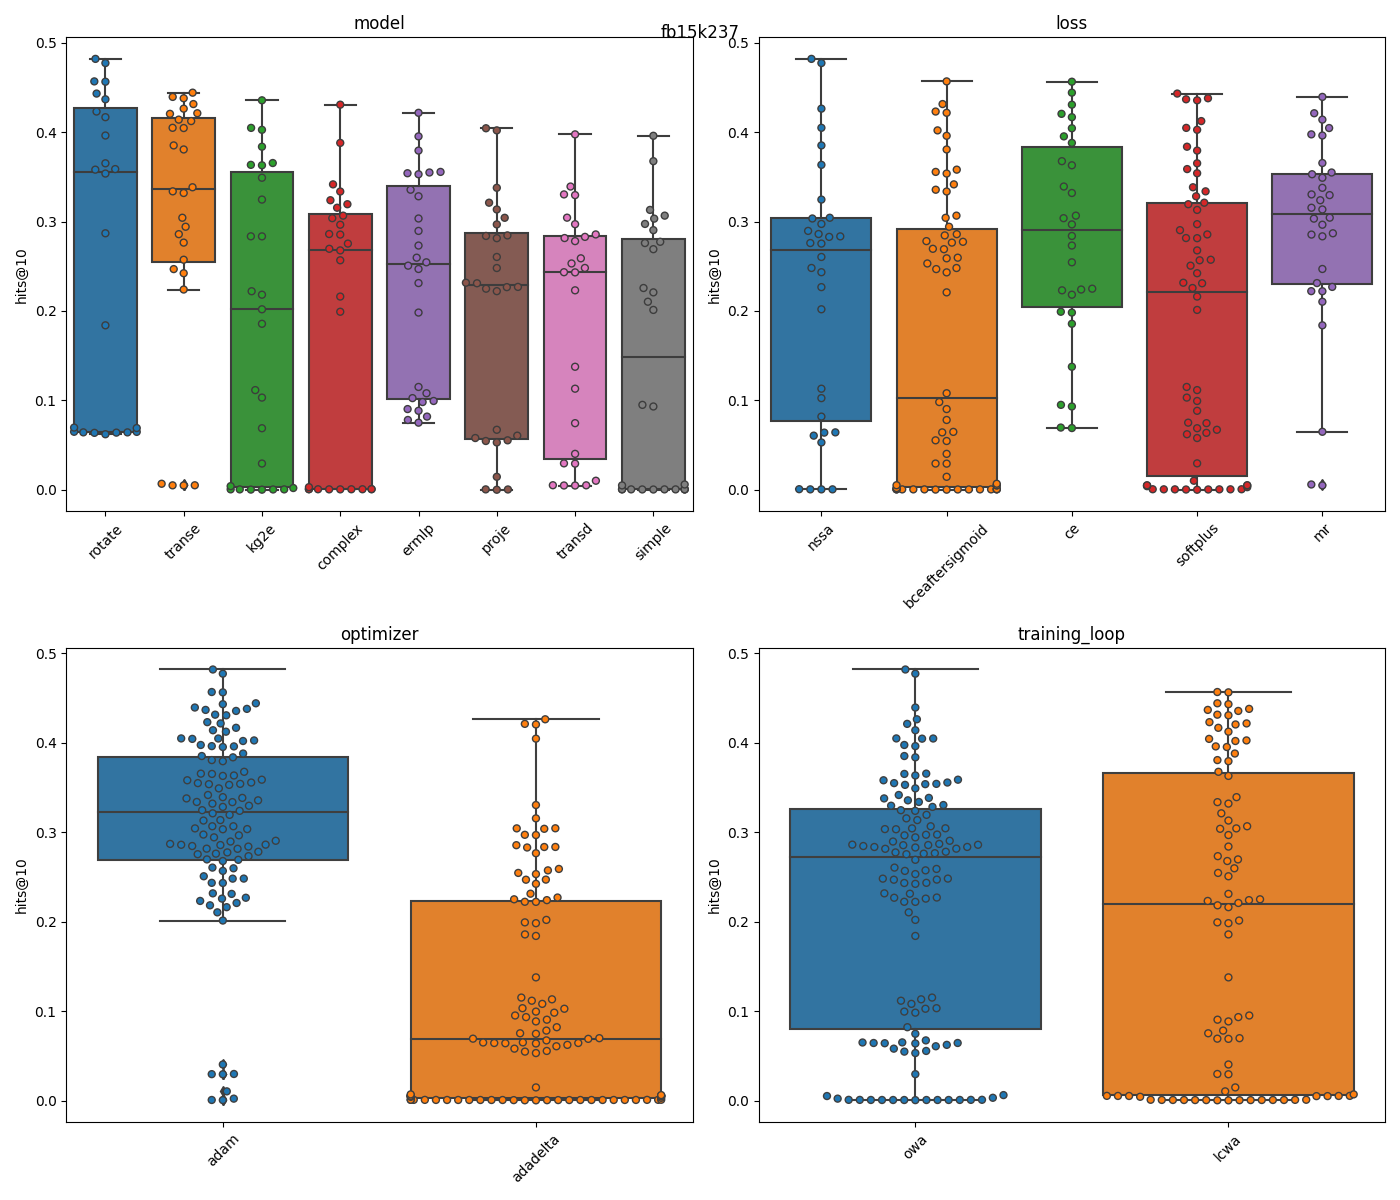
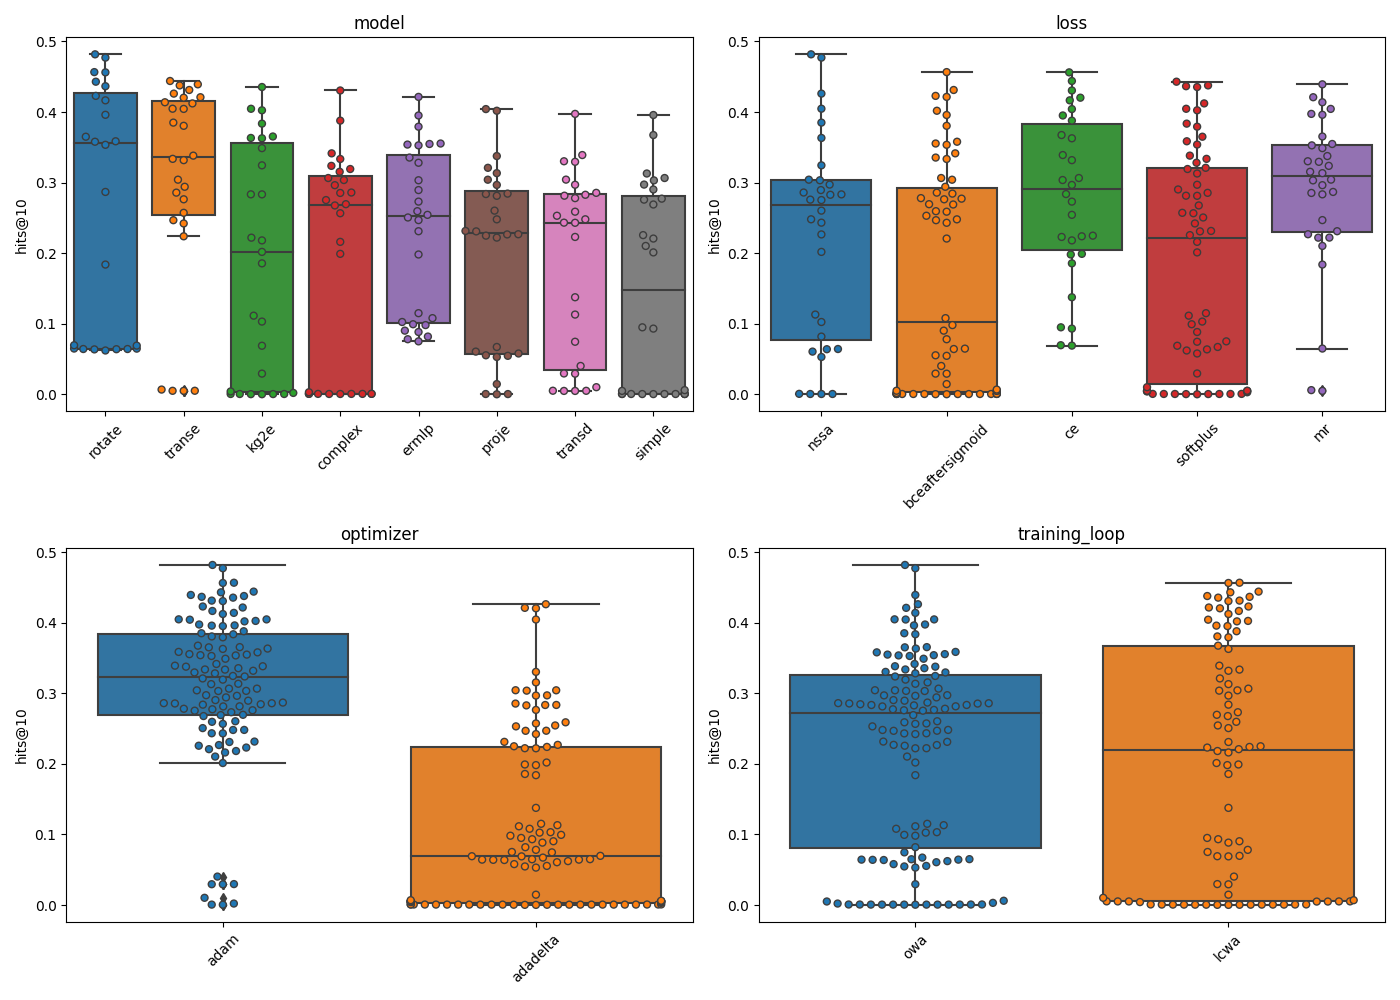
Update readme

diff --git a/ablation/results/collate.py b/ablation/results/collate.py
@@ -139,7 +139,7 @@ def make_plots(*, df: pd.DataFrame, target_header: str):
         dataset_dir = os.path.join(result_dir, dataset)
         os.makedirs(dataset_dir, exist_ok=True)
 
-        f, axes = plt.subplots(2, 2, figsize=(14, 12))
+        f, axes = plt.subplots(2, 2, figsize=(14, 10))
         for ablation_header, ax in zip(ablation_headers, axes.ravel()):
             # Aggregate the dataset by maximum for this header
             idx = sub_df.groupby([ablation_header])[target_header].transform(max) == sub_df[target_header]
@@ -162,7 +162,6 @@ def make_plots(*, df: pd.DataFrame, target_header: str):
             for tick in ax.get_xticklabels():
                 tick.set_rotation(45)
 
-        plt.suptitle(dataset)
         plt.tight_layout()
         plt.savefig(os.path.join(dataset_dir, f'{dataset}.png'))
 
@@ -176,7 +175,7 @@ def make_plots(*, df: pd.DataFrame, target_header: str):
             print(
                 f'<img src="results/_results/{dataset}/{dataset}.png"'
                 f' alt="{dataset}"'
-                f' height="600" />\n',
+                f' height="700" />\n',
                 file=file,
             )
 

diff --git a/ablation/README.md b/ablation/README.md
@@ -1,13 +1,13 @@
 # HPO Ablation Results
 
-Output at Sat Mar 21 19:11:20 2020
+Output at Sat Mar 21 19:12:33 2020
 
 Run <a href="results/collate.py">collate.py</a> to regenerate this README when new data is available
 ## fb15k237
 
-<img src="results/_results/fb15k237/fb15k237.png" alt="fb15k237" height="600" />
+<img src="results/_results/fb15k237/fb15k237.png" alt="fb15k237" height="700" />
 
 ## kinships
 
-<img src="results/_results/kinships/kinships.png" alt="kinships" height="600" />
+<img src="results/_results/kinships/kinships.png" alt="kinships" height="700" />
 
